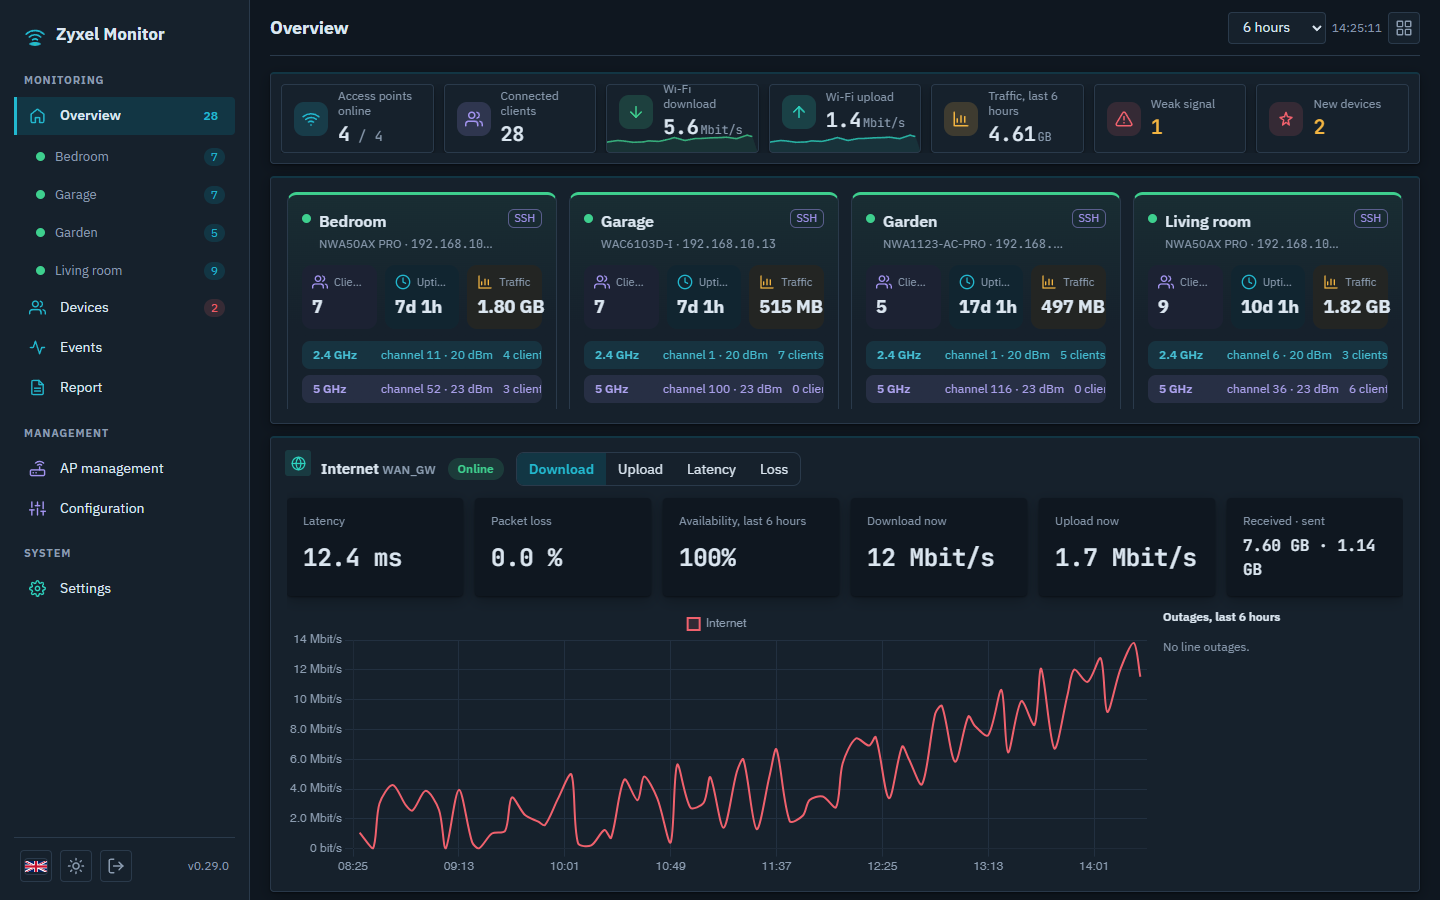
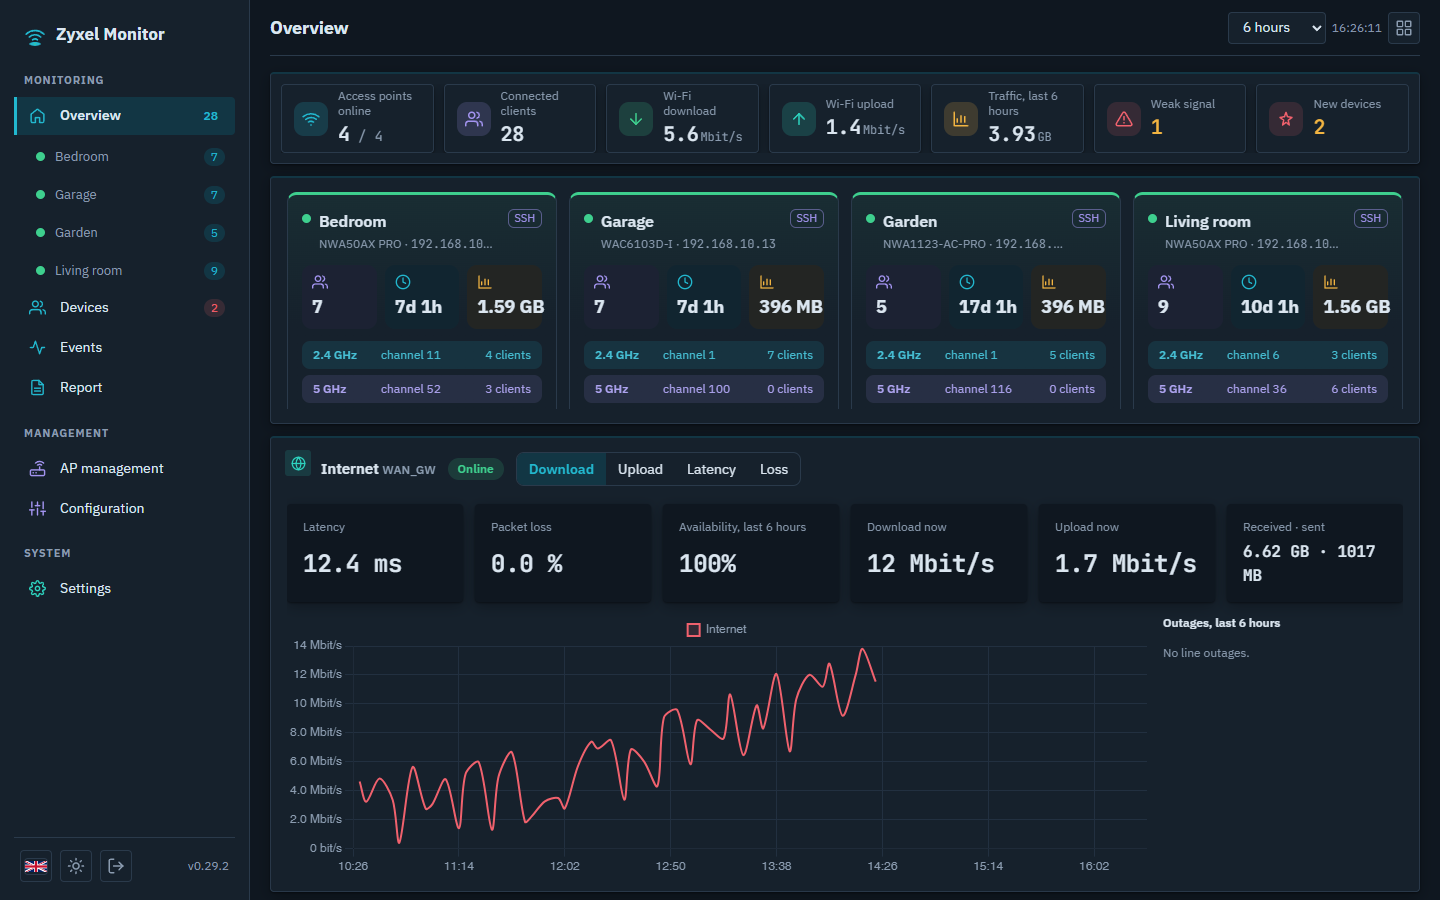
feat: schede ottimizzate con titoli fissi, barre al posto delle ciambelle e schede AP compatte

diff --git a/frontend/src/App.vue b/frontend/src/App.vue
@@ -11,7 +11,6 @@ import EventsTable from './components/EventsTable.vue'
 import Icon from './components/Icon.vue'
 import InternetCard from './components/InternetCard.vue'
 import LoginView from './components/LoginView.vue'
-import PieChart from './components/PieChart.vue'
 import TrafficChart from './components/TrafficChart.vue'
 import { bps, bytes, copyText, duration, signal, time } from './format'
 import { locale, t } from './i18n'
@@ -457,14 +456,14 @@ const SSH_NA = "La CLI SSH di questo AP non fornisce ancora il dato: in Impostaz
                 <span class="tag" :class="a.method">{{ a.method.toUpperCase() }}</span>
               </header>
               <div class="ap-tiles">
-                <div class="tile tone-violet">
+                <div class="tile tone-violet" :title="t('Client')">
                   <Icon name="users" :size="16" /><span>{{ t('Client') }}</span><strong>{{ a.clients ?? '—' }}</strong>
                 </div>
-                <div class="tile tone-blue" :title="a.method === 'ssh' && a.uptime_s == null ? t(SSH_NA) : ''">
+                <div class="tile tone-blue" :title="a.method === 'ssh' && a.uptime_s == null ? t(SSH_NA) : t('Acceso da')">
                   <Icon name="clock" :size="16" /><span>{{ t('Acceso da') }}</span>
                   <strong>{{ a.uptime_s == null && a.method === 'ssh' && a.online ? t('n.d.') : duration(a.uptime_s) }}</strong>
                 </div>
-                <div class="tile tone-amber" :title="a.method === 'ssh' && !usage?.per_ap[a.ap] ? t(SSH_NA) : ''">
+                <div class="tile tone-amber" :title="a.method === 'ssh' && !usage?.per_ap[a.ap] ? t(SSH_NA) : t('Traffico')">
                   <Icon name="chart" :size="16" /><span :title="t('Traffico {period}', { period: periodLabel })">{{ t('Traffico') }}</span>
                   <strong>{{ usage?.per_ap[a.ap] ? bytes(usage.per_ap[a.ap].down + usage.per_ap[a.ap].up) : a.method === 'ssh' && a.online ? t('n.d.') : '—' }}</strong>
                 </div>
@@ -474,7 +473,7 @@ const SSH_NA = "La CLI SSH di questo AP non fornisce ancora il dato: in Impostaz
                       :title="r.channel ? t('canale {n}', { n: r.channel }) : t('canale non fornito da questo AP')">
                   <b>{{ r.band.replace('GHz', ' GHz') }}</b>
                   <span :title="r.utilization != null ? t('Potenza {power} dBm, canale occupato al {util}%', { power: r.tx_power ?? '—', util: r.utilization }) : ''">
-                    <template v-if="r.channel">{{ t('canale {n}', { n: r.channel }) }}</template><template v-else-if="r.channel_auto">{{ t('canale auto') }}</template><template v-if="(r.channel || r.channel_auto) && r.tx_power != null"> · </template><template v-if="r.tx_power != null">{{ r.tx_power }} dBm</template>
+                    <template v-if="r.channel">{{ t('canale {n}', { n: r.channel }) }}</template><template v-else-if="r.channel_auto">{{ t('canale auto') }}</template>
                   </span>
                   <span>{{ t('{n} client', { n: r.clients }) }}</span>
                 </span>
@@ -501,14 +500,13 @@ const SSH_NA = "La CLI SSH di questo AP non fornisce ancora il dato: in Impostaz
           <template v-else-if="id === 'types'">
             <h2>{{ t('Dispositivi per tipologia') }}</h2>
             <!-- pochi tipi: barra compatta; tanti: ciambella con legenda -->
-            <SplitBar v-if="byType.length && byType.length <= 4" :items="byType" />
-            <PieChart v-else-if="byType.length" :items="byType" />
+            <SplitBar v-if="byType.length" :items="byType" />
             <p v-else class="muted">{{ t('Nessun client.') }}</p>
           </template>
 
           <template v-else-if="id === 'traffic_ap'">
             <h2>{{ t('Traffico per access point') }} <span class="muted small">({{ periodLabel }})</span></h2>
-            <PieChart v-if="gbByAp.length" :items="gbByAp" :format="bytes" :colors="gbByAp.map(i => apColor(i.label))" />
+            <SplitBar v-if="gbByAp.length" :items="gbByAp" :format="bytes" :colors="gbByAp.map(i => apColor(i.label))" />
             <EmptyState v-else icon="clock" :text="t('Dati in raccolta')" :hint="t('Servono alcuni minuti dopo l’avvio.')" />
           </template>
 
@@ -532,7 +530,7 @@ const SSH_NA = "La CLI SSH di questo AP non fornisce ancora il dato: in Impostaz
 
           <template v-else-if="id === 'clients_ap'">
             <h2>{{ t('Client per access point') }}</h2>
-            <PieChart v-if="byAp.length" :items="byAp" :colors="byAp.map(i => apColor(i.label))" />
+            <SplitBar v-if="byAp.length" :items="byAp" :colors="byAp.map(i => apColor(i.label))" />
             <p v-else class="muted">{{ t('Nessun client.') }}</p>
           </template>
 
@@ -676,8 +674,7 @@ const SSH_NA = "La CLI SSH di questo AP non fornisce ancora il dato: in Impostaz
 
           <!-- client -->
           <template v-else-if="id === 'clients'">
-            <h2 class="mb">{{ currentAp ? t('Client connessi a {ap}', { ap: currentAp.ap }) : t('Tutti i client connessi') }}</h2>
-            <p class="muted small mb">{{ t('Clicca un dispositivo per vedere segnale nel tempo e siti che contatta.') }}</p>
+            <h2 :title="t('Clicca un dispositivo per vedere segnale nel tempo e siti che contatta.')">{{ currentAp ? t('Client connessi a {ap}', { ap: currentAp.ap }) : t('Tutti i client connessi') }}</h2>
             <span class="clients-anchor" />
             <div v-if="weakOnly" class="filter-chip">
               ⚠ {{ t('Solo dispositivi con segnale debole (sotto -75 dBm)') }}

diff --git a/frontend/src/components/WidgetShell.vue b/frontend/src/components/WidgetShell.vue
@@ -42,12 +42,17 @@ const hasMenu = !!(def?.link || def?.csv)
 
 <style scoped>
 .widget { position: relative; }
-.w-ico { position: absolute; top: 12px; left: 14px; width: 26px; height: 26px; display: grid; place-items: center;
+.w-ico { position: absolute; z-index: 4; top: 12px; left: 14px; width: 26px; height: 26px; display: grid; place-items: center;
   border-radius: var(--radius-s); color: var(--tone, var(--accent)); background: color-mix(in srgb, var(--tone, var(--accent)) 14%, transparent); }
 .widget-body.has-ico > :deep(h2:first-child), .widget-body.has-ico > :deep(.section-head:first-child),
 .widget-body.has-ico > :deep(.internet:first-child > .section-head) { padding-left: 34px; min-height: 26px; }
 .widget-body.has-ico > :deep(h2:first-child)::before, .widget-body.has-ico > :deep(.section-head:first-child h2)::before,
 .widget-body.has-ico > :deep(.internet:first-child > .section-head h2)::before { display: none !important; }
+/* il titolo resta fisso in alto quando si scorre il contenuto del widget */
+.widget-body > :deep(h2:first-child), .widget-body > :deep(.section-head:first-child),
+.widget-body > :deep(.internet:first-child > .section-head) {
+  position: sticky; top: 0; z-index: 3; background: var(--surface); margin: 0; padding-bottom: 6px; }
+.widget-body { gap: 8px !important; }
 /* titoli su una riga: il sottotitolo lungo si accorcia invece di finire sopra il contenuto */
 .widget-body :deep(h2) { white-space: nowrap; overflow: hidden; text-overflow: ellipsis; flex: none; }
 .w-menu { position: absolute; top: 10px; right: 10px; z-index: 5; }

diff --git a/frontend/src/components/SplitBar.vue b/frontend/src/components/SplitBar.vue
@@ -3,14 +3,18 @@ import { computed } from 'vue'
 import { seriesColor, themeKey } from '../chartColors'
 
 /** Poche categorie (es. bande radio): una barra divisa in proporzione e la legenda su una riga. */
-const props = defineProps<{ items: { label: string; value: number }[]; selected?: string | null }>()
+const props = defineProps<{
+  items: { label: string; value: number }[]; selected?: string | null
+  /** colori per voce (es. il colore fisso di ogni AP) e formato del valore (es. GB) */
+  colors?: string[]; format?: (v: number) => string
+}>()
 /** clic su una voce della legenda (es. per mostrare i dispositivi di quella banda) */
 const emit = defineEmits<{ pick: [label: string] }>()
 
 const total = computed(() => props.items.reduce((s, i) => s + i.value, 0) || 1)
 const parts = computed(() => {
   themeKey()
-  return props.items.map((i, n) => ({ ...i, pct: Math.round((i.value / total.value) * 100), color: seriesColor(n) }))
+  return props.items.map((i, n) => ({ ...i, pct: Math.round((i.value / total.value) * 100), color: props.colors?.[n] ?? seriesColor(n), text: props.format ? props.format(i.value) : String(i.value) }))
 })
 </script>
 
@@ -24,7 +28,7 @@ const parts = computed(() => {
           @click="emit('pick', p.label)" @keydown.enter="emit('pick', p.label)">
         <span class="swatch" :style="{ background: p.color }" />
         <span>{{ p.label.replace('GHz', ' GHz') }}</span>
-        <strong>{{ p.value }}</strong>
+        <strong>{{ p.text }}</strong>
         <span class="muted">{{ p.pct }}%</span>
       </li>
     </ul>

diff --git a/frontend/src/components/TopologyMap.vue b/frontend/src/components/TopologyMap.vue
@@ -66,12 +66,12 @@ const nodes = computed(() => props.aps.map(a => {
 .node > div { display: flex; flex-direction: column; min-width: 0; }
 .node.on { border-left-color: var(--good); }
 .node.off { border-left-color: var(--bad); }
-.node.ap { width: 100%; cursor: pointer; border-left-color: var(--ap); }
+.node.ap { width: 100%; cursor: pointer; border-left-color: var(--ap); padding: 6px 8px; }
 .node.ap.off { border-left-color: var(--bad); }
 .node.ap:hover { border-color: var(--accent); }
 .link { width: 2px; height: 14px; background: var(--border); }
 .leaves { list-style: none; margin: 0; padding: 10px 0 0; width: 100%; border-top: 2px solid var(--border);
-  display: grid; grid-template-columns: repeat(auto-fit, minmax(150px, 1fr)); gap: 8px; }
+  display: grid; grid-template-columns: repeat(auto-fit, minmax(118px, 1fr)); gap: 6px; }
 .bands { display: flex; flex-wrap: wrap; gap: 4px; margin-top: 2px; }
 .band { font-size: 11px; padding: 0 6px; border-radius: 99px; background: var(--surface-2); color: var(--muted); }
 .band.weak { color: var(--weak); }

diff --git a/frontend/src/style.css b/frontend/src/style.css
@@ -614,3 +614,11 @@ button.ghost.active { background: var(--accent-soft); color: var(--accent); }
 .pop-choice .mark { color: var(--accent); }
 .pop input, .pop textarea { width: 100%; box-sizing: border-box; }
 .pop textarea { font: 12px/1.4 var(--font-mono); border: 1px solid var(--border); border-radius: var(--radius-s); padding: 6px; }
+
+/* schede degli AP in panoramica: icona + numero; l'etichetta resta come suggerimento se non c'è spazio */
+@container (max-width: 300px) { .tile span { display: none; } }
+.ap-grid .ap { container-type: inline-size; }
+.ap-bands .radio { height: auto !important; min-height: 28px; flex-wrap: wrap; row-gap: 2px; padding-top: 4px; padding-bottom: 4px; }
+.ap-bands .radio span { white-space: nowrap; }
+/* stati vuoti nei widget: riquadro tenue, non un grande bordo tratteggiato */
+.widget-body .empty { border: none; background: var(--surface-2); border-radius: var(--radius); flex: none; min-height: 0; padding: 18px 14px; }

diff --git a/frontend/src/components/ClientsTable.vue b/frontend/src/components/ClientsTable.vue
@@ -40,7 +40,7 @@ function displayName(c: Client) { return c.alias || c.hostname || c.ip || c.mac 
 </script>
 
 <template>
-  <div class="section-head">
+  <div class="section-head clients-head">
     <input v-model="search" class="search" :placeholder="t('Cerca nome, IP, MAC, tipo…')" />
     <span class="muted small">{{ t('{n} client', { n: filtered.length }) }}</span>
   </div>
@@ -88,3 +88,9 @@ function displayName(c: Client) { return c.alias || c.hostname || c.ip || c.mac 
     </table>
   </div>
 </template>
+
+<style scoped>
+/* ricerca compatta accanto al conteggio, non una riga lunga quanto la scheda */
+.clients-head { gap: 10px; margin-bottom: 6px; }
+.clients-head .search { flex: 0 1 320px; min-width: 0; }
+</style>
